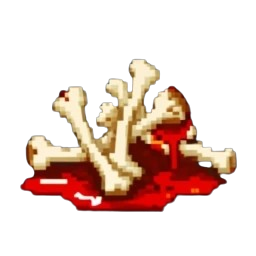
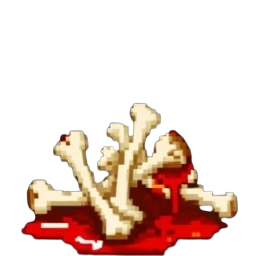
added cauldrons to the hell level as a static environmental sprite, modified hell map a little, adjusted bones image

diff --git a/Raycaster-FPS-Game/raycasting.js b/Raycaster-FPS-Game/raycasting.js
@@ -69,11 +69,11 @@ let game = {
             map: [
                 [2, 2, 2, 2, 2, 2, 2, 2, 2, 2, 2, 2, 2, 2, 2, 2, 2, 2, 2, 2],
                 [2, 0, 0, 0, 0, 2, 0, 0, 0, 2, 2, 2, 0, 0, 0, 0, 0, 3, 0, 2],
-                [2, 0, 0, 0, 0, 2, 0, 0, 0, 0, 2, 2, 0, 0, 0, 0, 0, 13, 0, 2],
+                [2, 0, 0, 0, 0, 0, 0, 0, 0, 0, 2, 2, 0, 1, 0, 0, 0, 13, 0, 2],
                 [2, 0, 0, 0, 0, 0, 13, 0, 0, 0, 0, 0, 0, 0, 0, 0, 0, 0, 0, 2],
-                [2, 2, 2, 2, 0, 0, 0, 0, 0, 0, 0, 2, 2, 0, 0, 0, 0, 2, 0, 2],
-                [2, 0, 0, 0, 0, 0, 0, 0, 0, 0, 0, 2, 2, 2, 0, 2, 0, 2, 2, 2],
-                [2, 0, 0, 0, 0, 0, 0, 19, 0, 0, 0, 2, 0, 0, 0, 2, 0, 0, 0, 2],
+                [2, 2, 0, 0, 0, 0, 0, 0, 19, 0, 0, 2, 2, 0, 0, 0, 0, 2, 0, 2],
+                [2, 0, 0, 0, 0, 0, 1, 0, 0, 0, 0, 2, 2, 2, 0, 2, 0, 2, 2, 2],
+                [2, 0, 0, 0, 0, 0, 0, 0, 0, 0, 0, 2, 0, 0, 0, 2, 0, 0, 0, 2],
                 [2, 0, 0, 0, 0, 0, 0, 0, 0, 0, 0, 2, 0, 0, 0, 2, 0, 0, 0, 2],
                 [2, 0, 0, 0, 19, 0, 0, 0, 0, 0, 0, 2, 0, 0, 13, 2, 0, 0, 0, 2],
                 [2, 0, 0, 0, 0, 0, 0, 19, 0, 0, 0, 2, 0, 0, 0, 2, 0, 12, 0, 2],
@@ -82,9 +82,9 @@ let game = {
                 [2, 2, 0, 0, 0, 2, 2, 0, 2, 0, 0, 3, 2, 3, 13, 0, 0, 0, 0, 2],
                 [2, 2, 2, 2, 2, 2, 2, 0, 2, 2, 0, 2, 2, 2, 2, 2, 0, 2, 2, 2],
                 [2, 2, 0, 0, 0, 0, 0, 0, 0, 2, 0, 0, 0, 0, 0, 0, 0, 0, 0, 2],
-                [2, 0, 13, 0, 0, 0, 0, 0, 0, 2, 0, 0, 0, 0, 13, 0, 0, 0, 0, 2],
-                [2, 0, 0, 0, 0, 0, 0, 0, 0, 2, 0, 13, 0, 0, 0, 0, 0, 0, 0, 2],
-                [2, 3, 0, 0, 0, 0, 13, 0, 2, 2, 0, 0, 0, 19, 0, 0, 0, 0, 18, 2],
+                [2, 0, 13, 0, 0, 1, 0, 0, 0, 2, 0, 0, 0, 1, 13, 0, 0, 0, 0, 2],
+                [2, 3, 0, 0, 0, 0, 0, 0, 0, 2, 0, 13, 0, 0, 0, 0, 0, 0, 0, 2],
+                [2, 0, 0, 0, 0, 0, 13, 0, 2, 2, 0, 0, 0, 19, 0, 0, 0, 0, 18, 2],
                 [2, 2, 2, 2, 2, 2, 2, 2, 2, 2, 2, 2, 2, 2, 2, 2, 2, 2, 2, 2]
             ],
             unlocked: true,
@@ -584,6 +584,9 @@ function loadLevel(levelIdx) {
             switch (game.levels[levelIdx].map[i][j]) {
                 case 1:
                     switch (game.currentLevel) {
+                        case 0:
+                            game.sprites.push({ id: "cauldron-sprite", x: j, y: i, width: 512, height: 512, active: false, data: null });
+                            break;
                         case 2:
                             game.sprites.push({ id: "snowytree-sprite", x: j, y: i, width: 552, height: 552, active: false, data: null });
                             break;

diff --git a/Raycaster-FPS-Game/raycasting.html b/Raycaster-FPS-Game/raycasting.html
@@ -48,6 +48,7 @@
     <img id="tombstone-sprite" src="img\static\tombstone.png" style="display: none;">
     <img id="tree-sprite" src="img\static\tree.png" style="display: none">
     <img id="pillar-sprite" src="img\static\pillar.png" style="display: none">
+    <img id="cauldron-sprite" src="img\static\cauldron.png" style="display: none">
     <img id="snowytree-sprite" src="img\static\snowytree.png" style="display: none">
     <img id="ammo-sprite" src="img\static\ammo.png" style="display: none">
     <img id="rocketammo-sprite" src="img\static\rocketammo.png" style="display: none">
